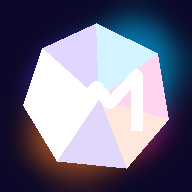
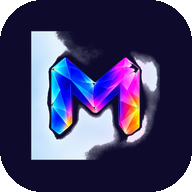
Add files via upload

diff --git a/index.html b/index.html
@@ -1,9 +1,10 @@
 <!doctype html>
-<html lang="fr"><head><meta charset="utf-8"><meta name="viewport" content="width=device-width,initial-scale=1,viewport-fit=cover"><meta name="theme-color" content="#0d0a2b"><link rel="manifest" href="manifest.json"><link rel="icon" href="icon-192.png"><title>Mouvement Intérieur</title>
+<html lang="fr"><head><meta charset="utf-8"><meta name="viewport" content="width=device-width,initial-scale=1,viewport-fit=cover"><meta name="theme-color" content="#0d0a2b"><link rel="manifest" href="manifest.json"><link rel="icon" href="icon-192.png"><link rel="apple-touch-icon" href="icon-192.png"><title>Mouvement Intérieur</title>
 <style>
-:root{--bg:#08061d;--glass:rgba(255,255,255,.085);--line:rgba(255,255,255,.15);--text:#f8f7ff;--muted:#b9b5d0;--v:#7a58ff;--p:#ff3cb9;--c:#36c7ff;--o:#ff8e4b}*{box-sizing:border-box}body{margin:0;min-height:100vh;color:var(--text);font-family:Inter,system-ui,sans-serif;background:radial-gradient(circle at 15% 8%,rgba(120,86,255,.28),transparent 34%),radial-gradient(circle at 88% 18%,rgba(49,199,255,.16),transparent 30%),linear-gradient(160deg,#08061d,#100b38 58%,#09051d);padding-bottom:env(safe-area-inset-bottom)}button{font:inherit}.app{max-width:560px;margin:auto;padding:16px 16px calc(120px + env(safe-area-inset-bottom))}.top{display:flex;justify-content:space-between;align-items:center;margin-bottom:15px}.brand{display:flex;gap:11px;align-items:center}.logo{width:46px;height:46px;border-radius:16px;display:grid;place-items:center;background:linear-gradient(145deg,rgba(255,255,255,.22),rgba(255,255,255,.04));border:1px solid var(--line);position:relative;overflow:hidden}.logo:before{content:"";position:absolute;inset:-20%;background:conic-gradient(from 220deg,var(--o),var(--p),var(--v),var(--c),var(--o));filter:blur(7px)}.logo b{z-index:1;font-size:25px}.brand strong{display:block}.brand small{color:var(--muted)}.gear{width:44px;height:44px;border:1px solid var(--line);border-radius:15px;background:var(--glass);color:#fff}.hero,.card,.rec,.week{border:1px solid var(--line);background:linear-gradient(145deg,rgba(255,255,255,.12),rgba(255,255,255,.05));backdrop-filter:blur(22px)}.hero{padding:20px;border-radius:28px}.ey{font-size:.76rem;letter-spacing:.16em;text-transform:uppercase;color:#ddd8ff;font-weight:800}.hero h1{font-size:clamp(2rem,8vw,3rem);line-height:.98;letter-spacing:-.05em;margin:10px 0}.hero p{color:#d1cde5;line-height:1.48;margin:0}.safe{margin-top:14px;padding:10px 12px;border-radius:15px;background:rgba(4,3,17,.24);font-size:.76rem;color:#c8c3da}.sec{margin-top:22px}.sh{display:flex;justify-content:space-between;align-items:end;margin:0 2px 10px}.sh h2{font-size:1.12rem;margin:0}.sh span{font-size:.76rem;color:var(--muted)}.moods{display:grid;grid-template-columns:repeat(3,1fr);gap:9px}.mood,.dur{border:1px solid var(--line);background:var(--glass);color:#fff;cursor:pointer}.mood{min-height:86px;border-radius:20px;padding:13px 10px;text-align:left}.mood strong{display:block;margin-top:14px;font-size:.9rem}.mood small,.dur small{display:block;color:var(--muted);font-size:.7rem;margin-top:3px}.dot{width:11px;height:11px;border-radius:50%;display:block}.low .dot{background:var(--c)}.ok .dot{background:var(--v)}.high .dot{background:var(--o)}.mood.active,.dur.active{background:linear-gradient(145deg,rgba(120,86,255,.74),rgba(255,54,183,.34));border-color:rgba(255,255,255,.35)}.durs{display:grid;grid-template-columns:repeat(4,1fr);gap:8px}.dur{min-height:62px;border-radius:18px;font-weight:850}.rec{margin-top:12px;padding:18px;border-radius:25px}.rt{display:flex;justify-content:space-between;gap:12px}.rec h3{margin:0 0 6px}.rec p{margin:0;color:var(--muted);font-size:.86rem;line-height:1.42}.badge{white-space:nowrap;color:#a6f4d8;border:1px solid rgba(117,231,187,.24);padding:7px 10px;border-radius:999px;font-size:.7rem;height:max-content}.steps{display:grid;grid-template-columns:repeat(3,1fr);gap:8px;margin:14px 0}.step{text-align:center;padding:10px 8px;border-radius:15px;background:rgba(0,0,0,.16);border:1px solid rgba(255,255,255,.09)}.step strong{display:block;font-size:.82rem}.step span{font-size:.68rem;color:var(--muted)}.cta{width:100%;border:0;border-radius:17px;padding:14px;font-weight:850;color:#fff;background:linear-gradient(125deg,var(--v),var(--p) 64%,var(--o))}.week{margin-top:12px;padding:15px 16px;border-radius:22px}.wt{display:flex;justify-content:space-between}.wt span{font-size:.76rem;color:var(--muted)}.prog{height:8px;margin-top:12px;border-radius:99px;background:rgba(255,255,255,.09);overflow:hidden}.prog i{display:block;width:33%;height:100%;background:linear-gradient(90deg,var(--c),var(--v),var(--p))}.browse{margin-top:12px;width:100%;min-height:50px;border-radius:17px;border:1px solid var(--line);background:rgba(255,255,255,.07);color:#fff;font-weight:800}.quote{margin-top:12px;padding:16px 17px;border-radius:21px;border:1px solid rgba(255,255,255,.12);background:linear-gradient(125deg,rgba(49,199,255,.08),rgba(120,86,255,.11),rgba(255,54,183,.07));font-size:.87rem;line-height:1.45}.nav{position:fixed;z-index:30;left:50%;transform:translateX(-50%);bottom:calc(10px + env(safe-area-inset-bottom));width:min(530px,calc(100% - 24px));display:grid;grid-template-columns:repeat(4,1fr);gap:5px;padding:8px;border-radius:22px;background:rgba(10,7,36,.9);border:1px solid rgba(255,255,255,.14);backdrop-filter:blur(24px)}.nav button{border:0;background:transparent;color:#aaa5c2;border-radius:15px;padding:9px 3px;font-size:.69rem}.nav button.active{color:#fff;background:rgba(255,255,255,.1)}dialog{width:min(520px,calc(100% - 26px));border:1px solid var(--line);border-radius:28px;padding:22px;color:#fff;background:linear-gradient(160deg,#16104b,#0b0826)}dialog::backdrop{background:rgba(2,1,10,.72)}.timer{font-size:3.6rem;font-weight:900;text-align:center;margin:22px}.actions{display:flex;gap:10px}.actions button{flex:1;padding:14px;border-radius:17px;border:1px solid var(--line);font-weight:800}.primary{color:#fff;background:linear-gradient(125deg,var(--v),var(--p),var(--o))}.secondary{color:#fff;background:rgba(255,255,255,.09)}@media(max-width:390px){.moods{grid-template-columns:1fr}.mood{min-height:66px}.durs{grid-template-columns:repeat(2,1fr)}}
+:root{--bg:#08061d;--glass:rgba(255,255,255,.085);--line:rgba(255,255,255,.15);--text:#f8f7ff;--muted:#b9b5d0;--v:#7a58ff;--p:#ff3cb9;--c:#36c7ff;--o:#ff8e4b}*{box-sizing:border-box}body{margin:0;min-height:100vh;color:var(--text);font-family:Inter,system-ui,sans-serif;background:radial-gradient(circle at 15% 8%,rgba(120,86,255,.28),transparent 34%),radial-gradient(circle at 88% 18%,rgba(49,199,255,.16),transparent 30%),linear-gradient(160deg,#08061d,#100b38 58%,#09051d);padding-bottom:env(safe-area-inset-bottom)}button{font:inherit}.app{max-width:560px;margin:auto;padding:16px 16px calc(120px + env(safe-area-inset-bottom))}.top{display:flex;justify-content:space-between;align-items:center;margin-bottom:15px}.brand{display:flex;gap:11px;align-items:center}.logo{width:54px;height:54px;display:grid;place-items:center;flex:0 0 auto}
+.logo img{width:54px;height:54px;object-fit:contain;display:block;filter:drop-shadow(0 6px 14px rgba(86,70,255,.35))}.brand strong{display:block}.brand small{color:var(--muted)}.gear{width:44px;height:44px;border:1px solid var(--line);border-radius:15px;background:var(--glass);color:#fff}.hero,.card,.rec,.week{border:1px solid var(--line);background:linear-gradient(145deg,rgba(255,255,255,.12),rgba(255,255,255,.05));backdrop-filter:blur(22px)}.hero{padding:20px;border-radius:28px}.ey{font-size:.76rem;letter-spacing:.16em;text-transform:uppercase;color:#ddd8ff;font-weight:800}.hero h1{font-size:clamp(2rem,8vw,3rem);line-height:.98;letter-spacing:-.05em;margin:10px 0}.hero p{color:#d1cde5;line-height:1.48;margin:0}.safe{margin-top:14px;padding:10px 12px;border-radius:15px;background:rgba(4,3,17,.24);font-size:.76rem;color:#c8c3da}.sec{margin-top:22px}.sh{display:flex;justify-content:space-between;align-items:end;margin:0 2px 10px}.sh h2{font-size:1.12rem;margin:0}.sh span{font-size:.76rem;color:var(--muted)}.moods{display:grid;grid-template-columns:repeat(3,1fr);gap:9px}.mood,.dur{border:1px solid var(--line);background:var(--glass);color:#fff;cursor:pointer}.mood{min-height:86px;border-radius:20px;padding:13px 10px;text-align:left}.mood strong{display:block;margin-top:14px;font-size:.9rem}.mood small,.dur small{display:block;color:var(--muted);font-size:.7rem;margin-top:3px}.dot{width:11px;height:11px;border-radius:50%;display:block}.low .dot{background:var(--c)}.ok .dot{background:var(--v)}.high .dot{background:var(--o)}.mood.active,.dur.active{background:linear-gradient(145deg,rgba(120,86,255,.74),rgba(255,54,183,.34));border-color:rgba(255,255,255,.35)}.durs{display:grid;grid-template-columns:repeat(4,1fr);gap:8px}.dur{min-height:62px;border-radius:18px;font-weight:850}.rec{margin-top:12px;padding:18px;border-radius:25px}.rt{display:flex;justify-content:space-between;gap:12px}.rec h3{margin:0 0 6px}.rec p{margin:0;color:var(--muted);font-size:.86rem;line-height:1.42}.badge{white-space:nowrap;color:#a6f4d8;border:1px solid rgba(117,231,187,.24);padding:7px 10px;border-radius:999px;font-size:.7rem;height:max-content}.steps{display:grid;grid-template-columns:repeat(3,1fr);gap:8px;margin:14px 0}.step{text-align:center;padding:10px 8px;border-radius:15px;background:rgba(0,0,0,.16);border:1px solid rgba(255,255,255,.09)}.step strong{display:block;font-size:.82rem}.step span{font-size:.68rem;color:var(--muted)}.cta{width:100%;border:0;border-radius:17px;padding:14px;font-weight:850;color:#fff;background:linear-gradient(125deg,var(--v),var(--p) 64%,var(--o))}.week{margin-top:12px;padding:15px 16px;border-radius:22px}.wt{display:flex;justify-content:space-between}.wt span{font-size:.76rem;color:var(--muted)}.prog{height:8px;margin-top:12px;border-radius:99px;background:rgba(255,255,255,.09);overflow:hidden}.prog i{display:block;width:33%;height:100%;background:linear-gradient(90deg,var(--c),var(--v),var(--p))}.browse{margin-top:12px;width:100%;min-height:50px;border-radius:17px;border:1px solid var(--line);background:rgba(255,255,255,.07);color:#fff;font-weight:800}.quote{margin-top:12px;padding:16px 17px;border-radius:21px;border:1px solid rgba(255,255,255,.12);background:linear-gradient(125deg,rgba(49,199,255,.08),rgba(120,86,255,.11),rgba(255,54,183,.07));font-size:.87rem;line-height:1.45}.nav{position:fixed;z-index:30;left:50%;transform:translateX(-50%);bottom:calc(10px + env(safe-area-inset-bottom));width:min(530px,calc(100% - 24px));display:grid;grid-template-columns:repeat(4,1fr);gap:5px;padding:8px;border-radius:22px;background:rgba(10,7,36,.9);border:1px solid rgba(255,255,255,.14);backdrop-filter:blur(24px)}.nav button{border:0;background:transparent;color:#aaa5c2;border-radius:15px;padding:9px 3px;font-size:.69rem}.nav button.active{color:#fff;background:rgba(255,255,255,.1)}dialog{width:min(520px,calc(100% - 26px));border:1px solid var(--line);border-radius:28px;padding:22px;color:#fff;background:linear-gradient(160deg,#16104b,#0b0826)}dialog::backdrop{background:rgba(2,1,10,.72)}.timer{font-size:3.6rem;font-weight:900;text-align:center;margin:22px}.actions{display:flex;gap:10px}.actions button{flex:1;padding:14px;border-radius:17px;border:1px solid var(--line);font-weight:800}.primary{color:#fff;background:linear-gradient(125deg,var(--v),var(--p),var(--o))}.secondary{color:#fff;background:rgba(255,255,255,.09)}@media(max-width:390px){.moods{grid-template-columns:1fr}.mood{min-height:66px}.durs{grid-template-columns:repeat(2,1fr)}}
 </style></head><body>
-<main class="app"><header class="top"><div class="brand"><div class="logo"><b>M</b></div><div><strong>Mouvement Intérieur</strong><small>Bouger doucement, à votre rythme</small></div></div><button class="gear">⚙</button></header>
+<main class="app"><header class="top"><div class="brand"><div class="logo"><img src="logo-m.png" alt="Logo Mouvement Intérieur"></div><div><strong>Mouvement Intérieur</strong><small>Bouger doucement, à votre rythme</small></div></div><button class="gear">⚙</button></header>
 <section class="hero"><div class="ey">Séance du jour</div><h1>Un petit mouvement compte.</h1><p>Choisissez votre énergie et le temps dont vous disposez. L’application vous propose une séance adaptée.</p><div class="safe">◉ Bougez seulement si votre état le permet. Arrêtez en cas de douleur, malaise ou vertige.</div></section>
 <section class="sec"><div class="sh"><h2>Comment vous sentez-vous ?</h2><span>Aujourd’hui</span></div><div class="moods"><button class="mood low active" data-mood="low"><span class="dot"></span><strong>Très peu d’énergie</strong><small>Assis et respiration</small></button><button class="mood ok" data-mood="ok"><span class="dot"></span><strong>Ça va</strong><small>Mobilité douce</small></button><button class="mood high" data-mood="high"><span class="dot"></span><strong>En forme</strong><small>Plus dynamique</small></button></div></section>
 <section class="sec"><div class="sh"><h2>Combien de temps ?</h2><span>Sans pression</span></div><div class="durs"><button class="dur active" data-min="5">5 min<small>Très doux</small></button><button class="dur" data-min="10">10 min<small>Essentiel</small></button><button class="dur" data-min="15">15 min<small>Complet</small></button><button class="dur" data-min="20">20 min<small>Tonique</small></button></div>

diff --git a/sw.js b/sw.js
@@ -1,1 +1,1 @@
-const CACHE='mouvement-interieur-v2';const ASSETS=['./','./index.html','./manifest.json','./icon-192.png','./icon-512.png'];self.addEventListener('install',e=>e.waitUntil(caches.open(CACHE).then(c=>c.addAll(ASSETS))));self.addEventListener('activate',e=>e.waitUntil(caches.keys().then(k=>Promise.all(k.filter(x=>x!==CACHE).map(x=>caches.delete(x))))));self.addEventListener('fetch',e=>e.respondWith(caches.match(e.request).then(r=>r||fetch(e.request))));
+const CACHE='mouvement-interieur-v3-logo';const ASSETS=['./','./index.html','./manifest.json','./icon-192.png','./icon-512.png','./logo-m.png'];self.addEventListener('install',e=>e.waitUntil(caches.open(CACHE).then(c=>c.addAll(ASSETS))));self.addEventListener('activate',e=>e.waitUntil(caches.keys().then(k=>Promise.all(k.filter(x=>x!==CACHE).map(x=>caches.delete(x))))));self.addEventListener('fetch',e=>e.respondWith(caches.match(e.request).then(r=>r||fetch(e.request))));
